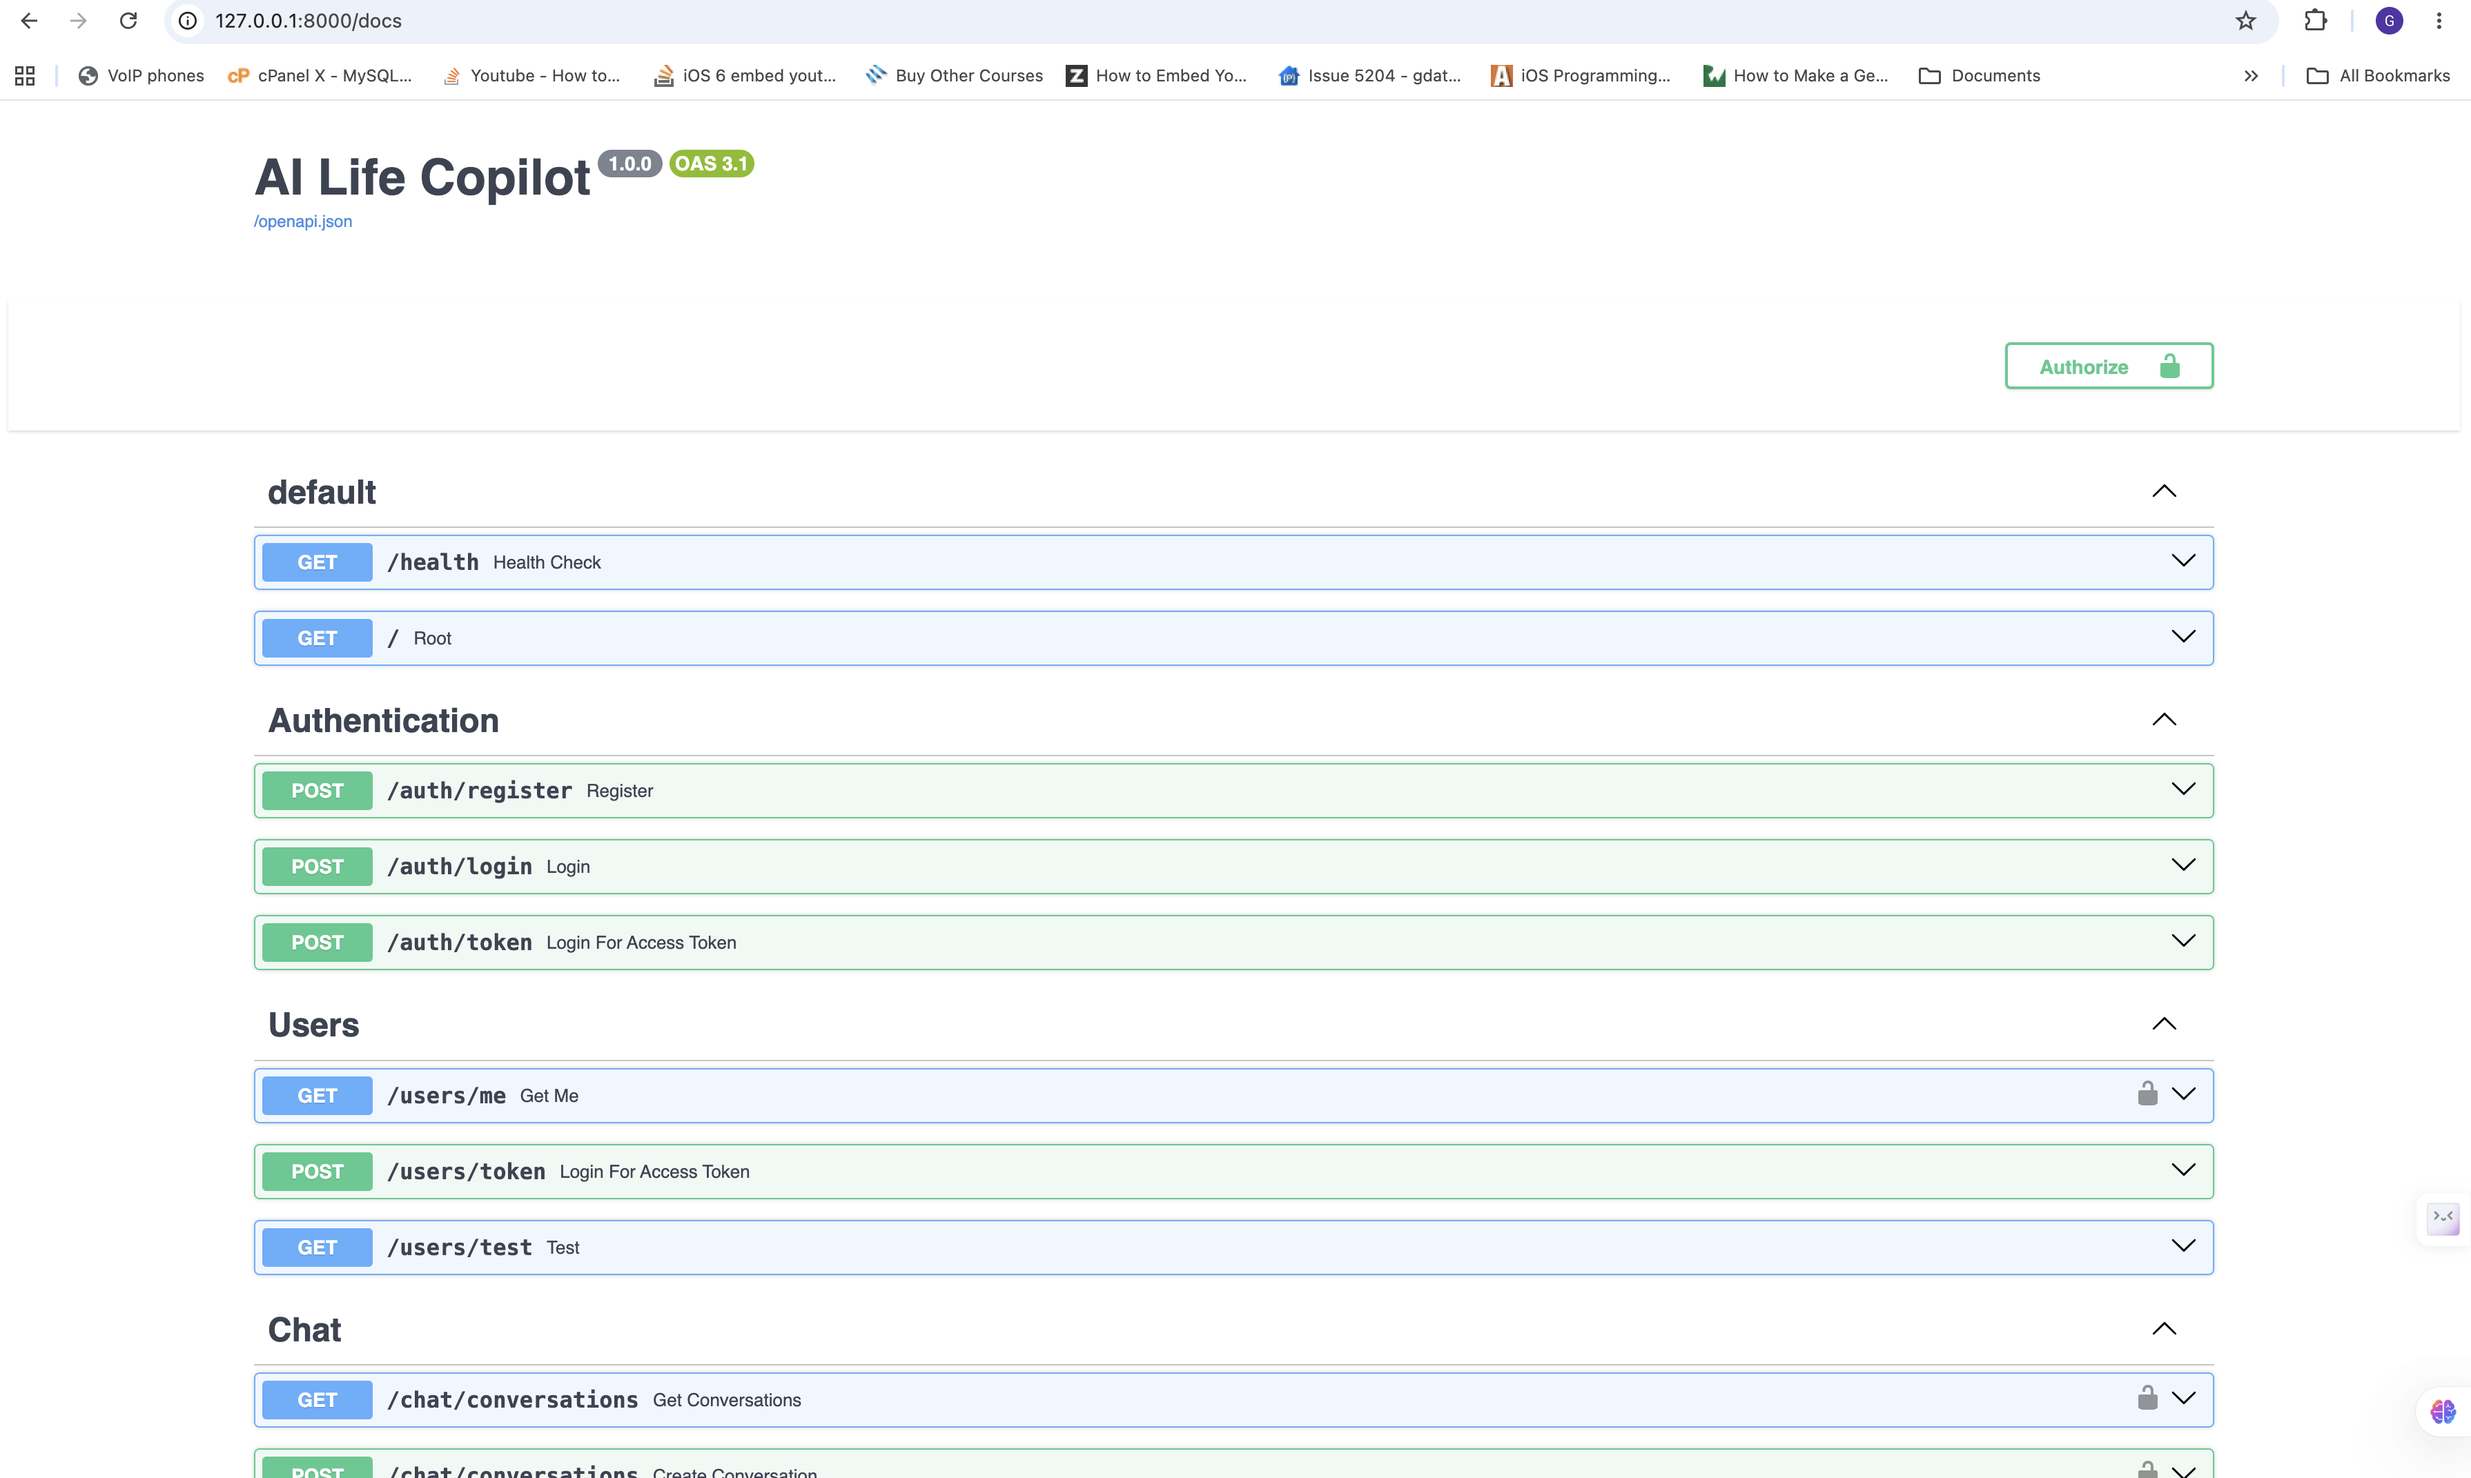
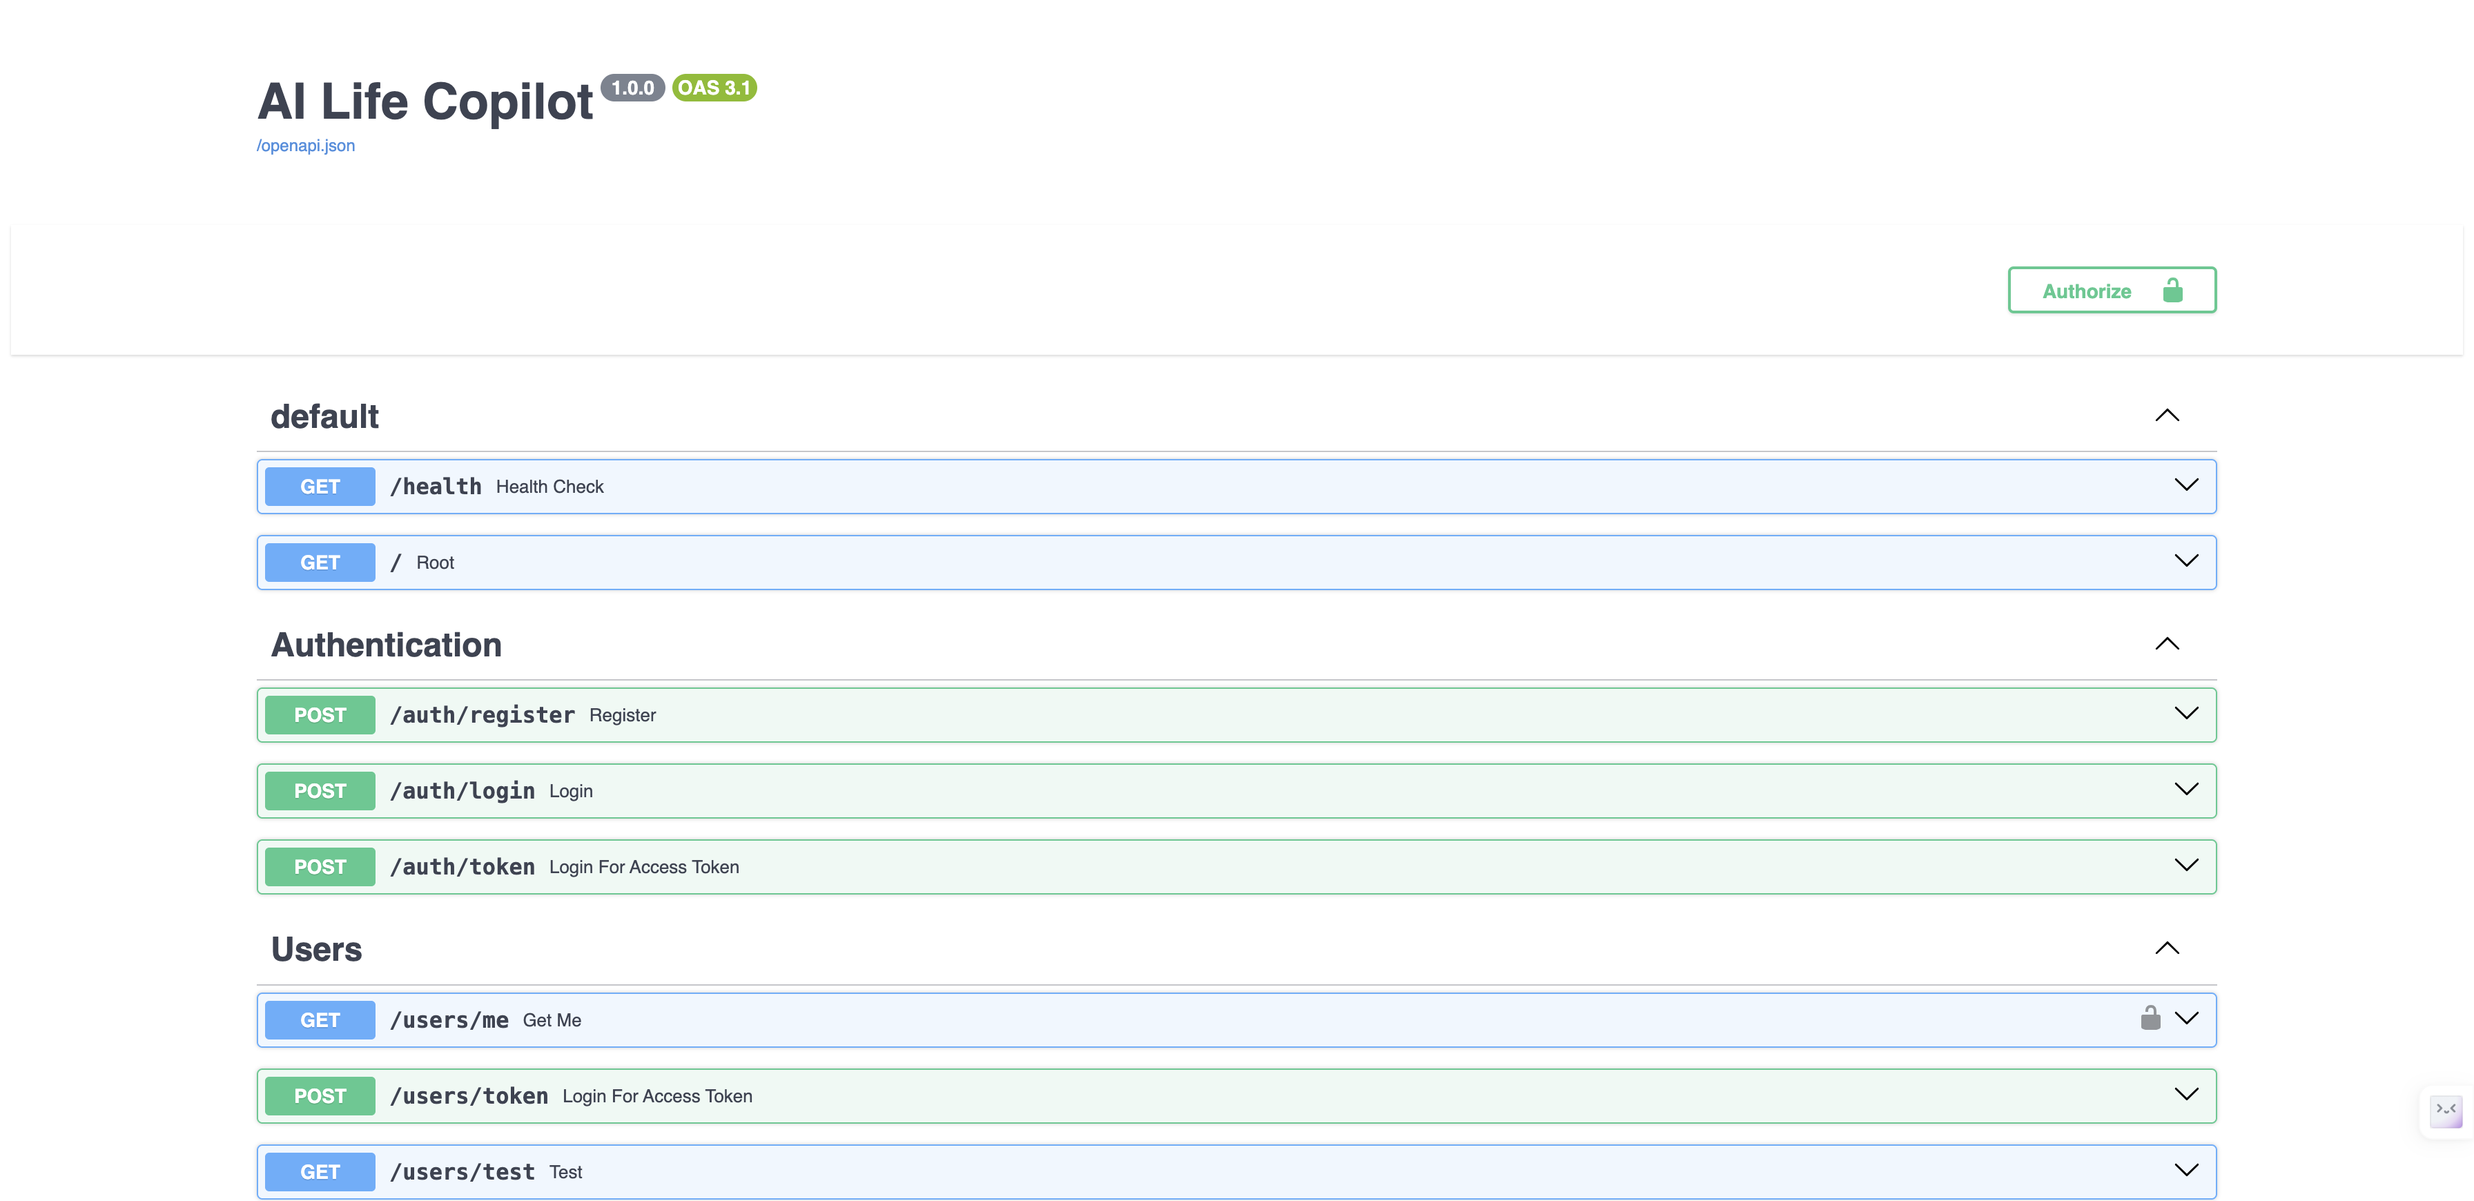
Add project screenshots and finalize README

diff --git a/README.md b/README.md
@@ -216,34 +216,16 @@ Generated Answer
 
 ## Application Screenshots
 
-### API Documentation
-
-Comprehensive Swagger/OpenAPI documentation for all backend services.
+### Swagger API Documentation
 
 ![Swagger Overview](docs/swagger-overview1.png)
 ![Swagger Overview](docs/swagger-overview2.png)
 
----
+### Conversation Creation
 
-### User Authentication
+![Conversation Management](docs/conversation-create.png)
 
-JWT-based authentication with secure access token generation.
-
-![Authentication](docs/auth-login.png)
-
----
-
-### Conversation Management
-
-Create and manage persistent AI conversations.
-
-![Conversation Management](docs/create-conversation.png)
-
----
-
-### Document Upload & Processing
-
-Upload PDF documents for chunking, embedding generation, and vector storage.
+### Document Upload
 
 ![Document Upload](docs/document-upload.png)
 
